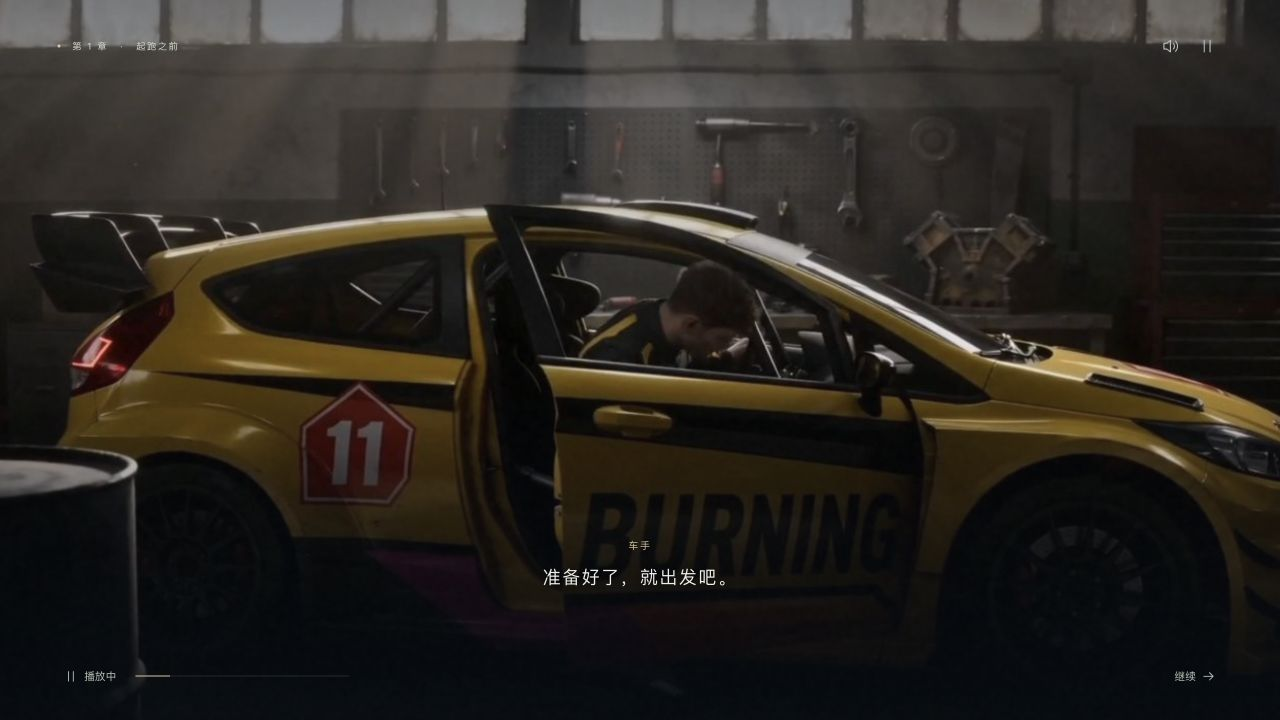
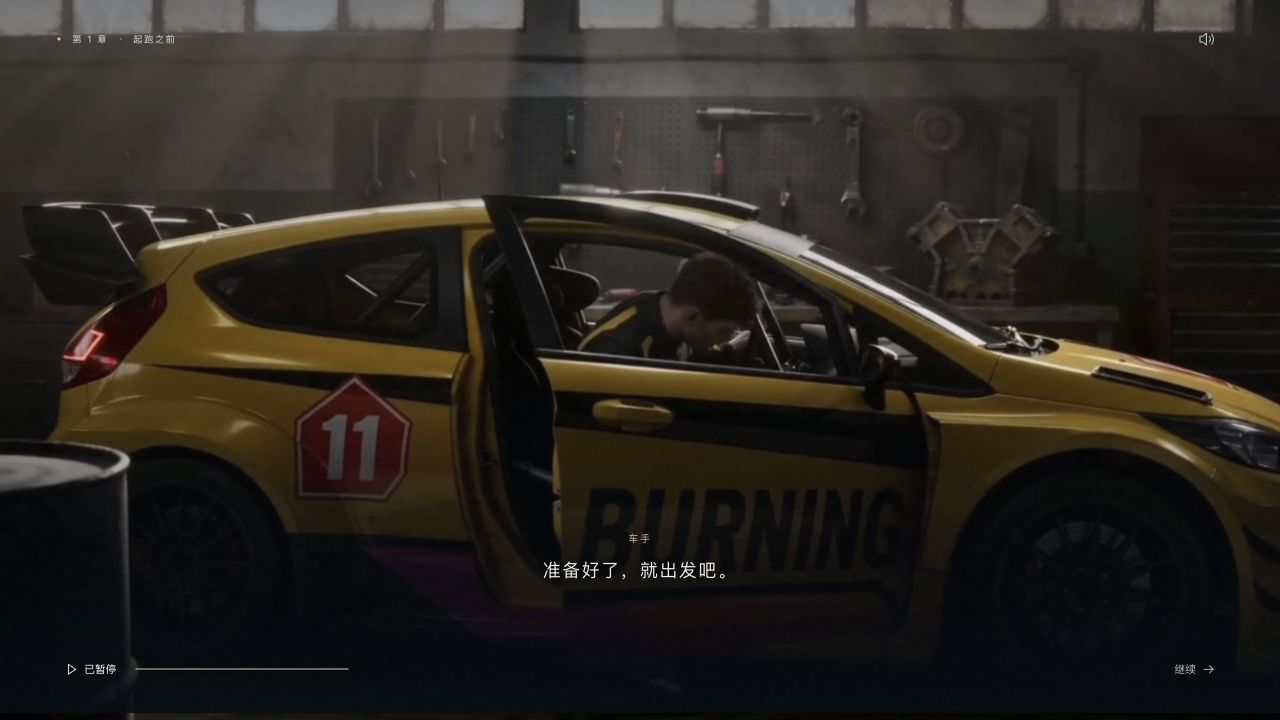
Remove the playback page corner pause button

diff --git a/compare.html b/compare.html
@@ -6,4 +6,4 @@
 <div id="comparison" class="comparison fit-stage" data-mode="wipe"><div class="still-stage"><div class="before-layer"><img id="before-image" alt="修改前截图"><div id="no-before" class="no-before" hidden><span>—</span><h3>没有对应原版截图</h3><p id="before-note"></p></div><span class="picture-label before-label">原版</span></div><div class="after-layer" id="after-layer"><img id="after-image" alt="修改后截图"><span class="picture-label after-label">新版</span></div><div id="wipe-handle" class="wipe-handle"><span>↔</span></div><div class="safe-area" aria-hidden="true"><span>4.5% 水平安全区</span></div></div><div class="motion-stage" hidden><iframe id="motion-frame" title="页面动效预览"></iframe><div class="safe-area" aria-hidden="true"><span>4.5% 水平安全区</span></div></div></div>
 <div id="slider-row" class="slider-row"><span>新版更多</span><input id="wipe-slider" type="range" min="0" max="100" value="50" aria-label="新旧画面分割位置"><span>原版更多</span></div><p id="image-note" class="image-note"></p><div class="change-summary"><div><h3>布局与层级</h3><p id="change"></p></div><div><h3>比例</h3><p id="ratio"></p></div><div><h3>动效与操作</h3><p id="motion"></p><p id="interaction"></p></div></div></section>
 <section id="proportions" class="spec-section"><div class="section-heading"><span class="eyebrow">PROPORTION SYSTEM</span><h2>分别调整层级，建立统一的尺寸体系。</h2><p>以下均以 1920×1080 为设计基准。背景随视口铺满，UI 按当前基准等比缩放；水平安全区为画面宽度的 4.5%。原版数值来自截图估测。</p></div><div class="table-scroll"><table><thead><tr><th>项目</th><th>原版 · 约</th><th>新版</th><th>变化</th><th>调整目的</th></tr></thead><tbody id="proportion-table"></tbody></table></div><div class="principles"><div><span>01</span><h3>让场景成为主体</h3><p>减少全屏灰白覆盖和重高光。菜单、设置、弹窗用暗色虚化与局部明暗建立前后层次。</p></div><div><span>02</span><h3>控制视觉重量</h3><p>正文、辅助数值、主操作分别定标。保留大结果标题，收紧表单标签与导航控件。</p></div><div><span>03</span><h3>统一反馈语言</h3><p>细描边、短位移、柔和减速。悬停、按下、选中、取消与退出都给出明确回应。</p></div></div></section>
-<section id="handoff" class="spec-section"><div class="section-heading"><span class="eyebrow">MOTION SYSTEM</span><h2>一套进出场节奏，覆盖每个页面。</h2><p>页面退出 150ms，新页标题先入场，内容以 42–85ms 错峰，主体在约 0.8–1.1s 内落位。背景与封面 Logo 使用更长的缓慢收尾。</p></div><div class="motion-grid"><div><h3>常规入场</h3><strong>560–760<span> ms</span></strong><p>缓动 cubic-bezier(.16, 1, .3, 1)<br>上下位移约 8–24px，以设计基准计</p></div><div><h3>背景推近</h3><strong>3.6<span> s</span></strong><p>起止速度与加速度均为零<br>封面 100% → 103.5%，结束后停留</p></div><div><h3>确认弹窗</h3><strong>420<span> ms</span></strong><p>遮罩先淡入，弹窗轻浮落位<br>退出 150ms，取消后恢复焦点</p></div></div><div class="check-row"><span>✓ 页面切换</span><span>✓ 悬停 / 按下</span><span>✓ 键盘操作</span><span>✓ 弹窗焦点</span><span>✓ 减少动态效果适配</span><span>✓ 所有页面可重播</span><span>✓ Hover / 点击 / 切页音效</span></div><div class="file-links"><a href="design-tokens.json" download>下载尺寸与颜色参数</a><a href="motion-spec.json" download>下载逐页动效参数</a><a href="sound-spec.json" download>下载界面音效参数</a><a href="implementation-notes.txt" download>下载落地说明</a><a href="https://preview.game.yoroll.ai/?config=Race&test=1&lang=zh" target="_blank">查看原始预览 ↗</a></div><details open><summary>范围、素材与验证说明</summary><ul id="scope-notes"></ul><p>已检查主菜单、章节与剧情树导航；设置数值与语言下拉；新建存档和确认 / 取消；限时选择暂停计时；选择 → QTE → 结果链路；完成页可进入下一章或返回章节选择。所有页面 / 状态均已保存本地截图。</p></details></section><footer class="report-footer">YOROLL · UI & MOTION EXPLORATION <span>2026.11.11 · 本地方案</span></footer></article></main><script src="report-data.js?v=completion-gold-particles-20261114"></script><script src="compare.js?v=completion-gold-particles-20261114"></script></body></html>
+<section id="handoff" class="spec-section"><div class="section-heading"><span class="eyebrow">MOTION SYSTEM</span><h2>一套进出场节奏，覆盖每个页面。</h2><p>页面退出 150ms，新页标题先入场，内容以 42–85ms 错峰，主体在约 0.8–1.1s 内落位。背景与封面 Logo 使用更长的缓慢收尾。</p></div><div class="motion-grid"><div><h3>常规入场</h3><strong>560–760<span> ms</span></strong><p>缓动 cubic-bezier(.16, 1, .3, 1)<br>上下位移约 8–24px，以设计基准计</p></div><div><h3>背景推近</h3><strong>3.6<span> s</span></strong><p>起止速度与加速度均为零<br>封面 100% → 103.5%，结束后停留</p></div><div><h3>确认弹窗</h3><strong>420<span> ms</span></strong><p>遮罩先淡入，弹窗轻浮落位<br>退出 150ms，取消后恢复焦点</p></div></div><div class="check-row"><span>✓ 页面切换</span><span>✓ 悬停 / 按下</span><span>✓ 键盘操作</span><span>✓ 弹窗焦点</span><span>✓ 减少动态效果适配</span><span>✓ 所有页面可重播</span><span>✓ Hover / 点击 / 切页音效</span></div><div class="file-links"><a href="design-tokens.json" download>下载尺寸与颜色参数</a><a href="motion-spec.json" download>下载逐页动效参数</a><a href="sound-spec.json" download>下载界面音效参数</a><a href="implementation-notes.txt" download>下载落地说明</a><a href="https://preview.game.yoroll.ai/?config=Race&test=1&lang=zh" target="_blank">查看原始预览 ↗</a></div><details open><summary>范围、素材与验证说明</summary><ul id="scope-notes"></ul><p>已检查主菜单、章节与剧情树导航；设置数值与语言下拉；新建存档和确认 / 取消；限时选择暂停计时；选择 → QTE → 结果链路；完成页可进入下一章或返回章节选择。所有页面 / 状态均已保存本地截图。</p></details></section><footer class="report-footer">YOROLL · UI & MOTION EXPLORATION <span>2026.11.11 · 本地方案</span></footer></article></main><script src="report-data.js?v=gameplay-hud-clean-20261114"></script><script src="compare.js?v=gameplay-hud-clean-20261114"></script></body></html>

diff --git a/app.js b/app.js
@@ -531,8 +531,8 @@ function settingsView(){
  <div class="setting-row language" data-enter="setting"><span>语言</span><div class="select-wrap"><button class="select-button" id="language-select" aria-expanded="false" aria-haspopup="listbox"><span>${settingState.language}</span>${icon('chevron')}</button><div class="select-options" id="language-options" role="listbox" aria-label="语言" hidden>${['跟随系统','简体中文','English','日本語'].map(label=>`<button role="option" aria-selected="${label===settingState.language}" data-language="${label}">${label}${label===settingState.language?icon('check'):''}</button>`).join('')}</div></div></div><p class="settings-note" data-enter="footer">主音量控制整体 · 音效与音乐分别调节</p></section>${footer(button('恢复默认','reset-settings','btn-small'),'<span><span class="keycap">Esc</span> 返回</span>')}`;
 }
 function playbackLabel(){return playbackStoryNode?.chapter===selectedChapter?`片段 ${playbackStoryNode.id} · ${playbackStoryNode.name}`:activeChapter().name;}
-function hud(){const chapter=activeChapter(),fragment=playbackStoryNode?.chapter===selectedChapter?playbackStoryNode:null,labels=[`第 ${chapter.number} 章`,...(fragment?[`片段 ${fragment.id}`,fragment.name]:[chapter.name])];return `<div class="game-hud"><div class="hud-scene" data-enter="heading">${labels.map(label=>`<span class="hud-scene-label">${label}</span>`).join('<span class="hud-scene-separator" aria-hidden="true"></span>')}</div><div class="hud-actions"><div data-enter="header">${soundButton()}</div><div data-enter="header"><button class="icon-button" data-route="pause" aria-label="暂停">${icon('pause')}</button></div></div></div>`;}
-function gameplayView(){return `${hud()}<div class="subtitle" data-enter="subtitle"><span class="speaker">车手</span><span id="subtitle-text">准备好了，就出发吧。</span></div><div class="playback-bar" data-enter="footer"><div class="playback-status"><button class="play-control" data-action="playback" aria-label="${playbackPaused?'继续播放':'暂停播放'}">${icon(playbackPaused?'play':'pause')}<span>${playbackPaused?'已暂停':'播放中'}</span></button><div class="playback-track"><span id="play-progress"></span></div></div><button class="play-control" data-route="choice">继续 ${icon('arrow')}</button></div>`;}
+function hud({showPause=true}={}){const chapter=activeChapter(),fragment=playbackStoryNode?.chapter===selectedChapter?playbackStoryNode:null,labels=[`第 ${chapter.number} 章`,...(fragment?[`片段 ${fragment.id}`,fragment.name]:[chapter.name])];return `<div class="game-hud"><div class="hud-scene" data-enter="heading">${labels.map(label=>`<span class="hud-scene-label">${label}</span>`).join('<span class="hud-scene-separator" aria-hidden="true"></span>')}</div><div class="hud-actions"><div data-enter="header">${soundButton()}</div>${showPause?`<div data-enter="header"><button class="icon-button" data-route="pause" aria-label="暂停">${icon('pause')}</button></div>`:''}</div></div>`;}
+function gameplayView(){return `${hud({showPause:false})}<div class="subtitle" data-enter="subtitle"><span class="speaker">车手</span><span id="subtitle-text">准备好了，就出发吧。</span></div><div class="playback-bar" data-enter="footer"><div class="playback-status"><button class="play-control" data-action="playback" aria-label="${playbackPaused?'继续播放':'暂停播放'}">${icon(playbackPaused?'play':'pause')}<span>${playbackPaused?'已暂停':'播放中'}</span></button><div class="playback-track"><span id="play-progress"></span></div></div><button class="play-control" data-route="choice">继续 ${icon('arrow')}</button></div>`;}
 function pauseView(){return `${pageHeading('暂停','gameplay')}<nav class="pause-menu"><div class="eyebrow" data-enter="pause">STORY PAUSED</div><h1 data-enter="pause">片刻停留</h1><div class="pause-list">${[['继续游戏','gameplay'],['剧情树','tree'],['切换存档','saves'],['设置','settings'],['返回主菜单','home']].map(([label,route])=>`<div data-enter="pause"><button data-route="${route}">${label}${icon('arrow')}</button></div>`).join('')}</div></nav>${footer(`第 ${activeChapter().number} 章 · ${playbackLabel()}`,'<span><span class="keycap">Esc</span> 继续游戏</span>')}`;}
 function choiceView(){
  const outline='<svg class="choice-outline" viewBox="0 0 196 52" preserveAspectRatio="none" aria-hidden="true"><path d="M90 51H26A25 25 0 0 1 26 1H170A25 25 0 0 1 170 51H106" vector-effect="non-scaling-stroke"/><circle cx="98" cy="51" r="1.6"/></svg>';

diff --git a/compare.js b/compare.js
@@ -15,7 +15,7 @@ function updatePage(){
  $('#page-kind').textContent=page.kind;
  $('#page-count').textContent=`${String(index+1).padStart(2,'0')} / ${pages.length}`;
  $('#change').textContent=page.change;$('#ratio').textContent=page.ratio;$('#motion').textContent=page.motion;$('#interaction').textContent=page.interaction;
- $('#after-image').src=`comparison/after/${page.id}.jpg?v=completion-gold-particles-20261114`;
+ $('#after-image').src=`comparison/after/${page.id}.jpg?v=gameplay-hud-clean-20261114`;
  $('#after-image').alt=page.name+'修改后';
  $('#before-image').hidden=!page.before;
  $('#no-before').hidden=Boolean(page.before);
@@ -23,12 +23,12 @@ function updatePage(){
  else $('#before-image').removeAttribute('src');
  $('#before-note').textContent=page.beforeNote|| (page.kind==='沿用已定方案'?'沿用本聊天之前已确认的封面构图与素材。':'该状态未在这次线上预览中观察到。新版提供可操作的补充动效示例。');
  $('#image-note').textContent=mode==='motion'?'当前为可操作的实时动效。页面内可以继续导航，点击重播可回到所选页面。':page.before?(page.beforeSource==='user'?'原版来自用户提供的旧版 UI；新版为浏览器实际截图，重点对比尺寸、间距和动效。':'原版来自线上实际截图；新版为本地浏览器截图。底图部分不同，对比重点为 UI 占比、层级与位置。'):'左侧保留来源说明；右侧展示本轮方案。点击「播放动效」体验完整入场。';
- $('#open-prototype').href=`index.html?page=${page.id}&revision=completion-gold-particles-20261114`;
+ $('#open-prototype').href=`index.html?page=${page.id}&revision=gameplay-hud-clean-20261114`;
  document.querySelectorAll('[data-page]').forEach(button=>{if(button.dataset.page===page.id)button.setAttribute('aria-current','page');else button.removeAttribute('aria-current');});
  history.replaceState(null,'','#'+page.id);
  if(mode==='motion')loadMotion();
 }
-function loadMotion(){const page=pages[index];$('#motion-frame').src=`index.html?page=${page.id}&capture=1&revision=completion-gold-particles-20261114&replay=${++replay}`;}
+function loadMotion(){const page=pages[index];$('#motion-frame').src=`index.html?page=${page.id}&capture=1&revision=gameplay-hud-clean-20261114&replay=${++replay}`;}
 function setMode(value){
  mode=value;$('#comparison').dataset.mode=mode;
  document.querySelectorAll('button[data-mode]').forEach(button=>button.setAttribute('aria-pressed',String(button.dataset.mode===mode)));

diff --git a/report-data.js b/report-data.js
@@ -117,10 +117,11 @@ window.YOROLL_REPORT = {
       "name": "游戏内",
       "before": "04-gameplay.jpg",
       "kind": "场景帧实拍",
-      "change": "保持全屏场景，增加小型 HUD、字幕层级与克制的播放控制。原版只采集到视频场景，未采集到稳定游戏内控件。",
+      "change": "保持当前全屏场景、字幕与 HUD 比例；播放页右上角仅保留声音开关，移除多余的暂停入口。底部保留播放状态、进度和继续控制。",
       "ratio": "字幕 27px；说话人 15px；HUD 辅助文字 14px；图标区域 46px。",
       "motion": "字幕由下方 12px 柔和显现；HUD 先后进入；进度条连续变化。",
-      "interaction": "暂停、界面音效静音、播放状态与继续按钮均可演示；静音会实际关闭本地界面声音。本地为截图场景与进度动画，没有移植原视频播放内核。"
+      "interaction": "底部可暂停 / 继续播放；右上角声音开关控制全部本地声音，Esc 可进入暂停菜单。场景与播放进度为本地交互演示。",
+      "hudRevision": "gameplay-hud-clean-20261114"
     },
     {
       "id": "pause",

diff --git a/index.html b/index.html
@@ -33,6 +33,6 @@
   <script src="ui-sound.js?v=chapter-short-resonance-20261113"></script>
   <script src="home-music.js?v=completion-gold-particles-20261114"></script>
   <script src="story-tree.js?v=tree-locked-hover-20261113"></script>
-  <script src="app.js?v=completion-gold-particles-20261114"></script>
+  <script src="app.js?v=gameplay-hud-clean-20261114"></script>
 </body>
 </html>
